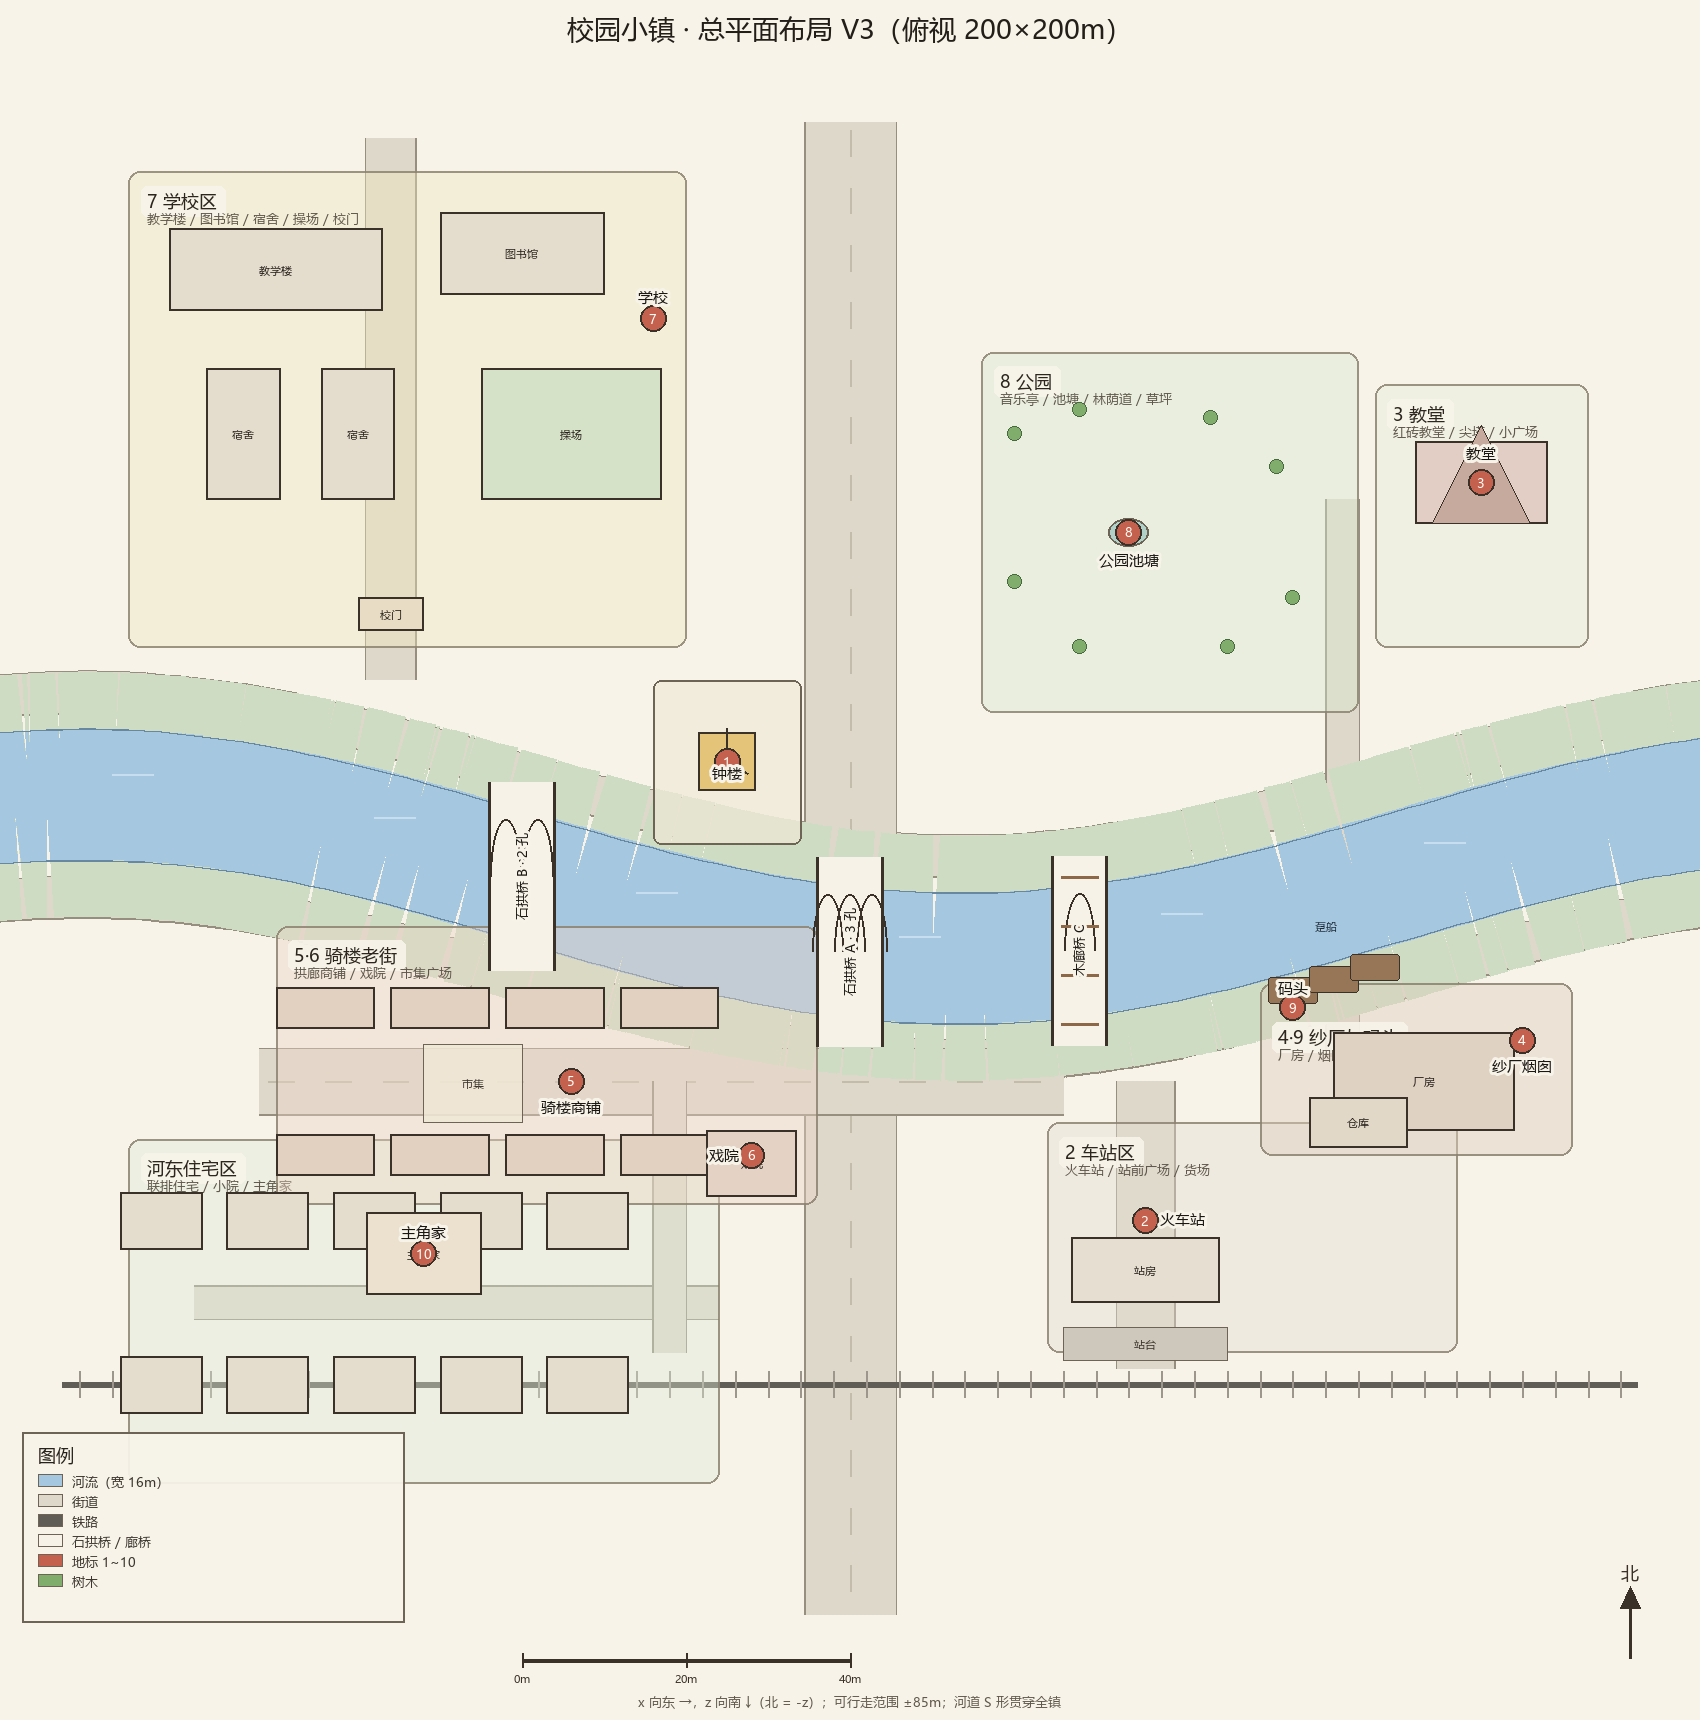
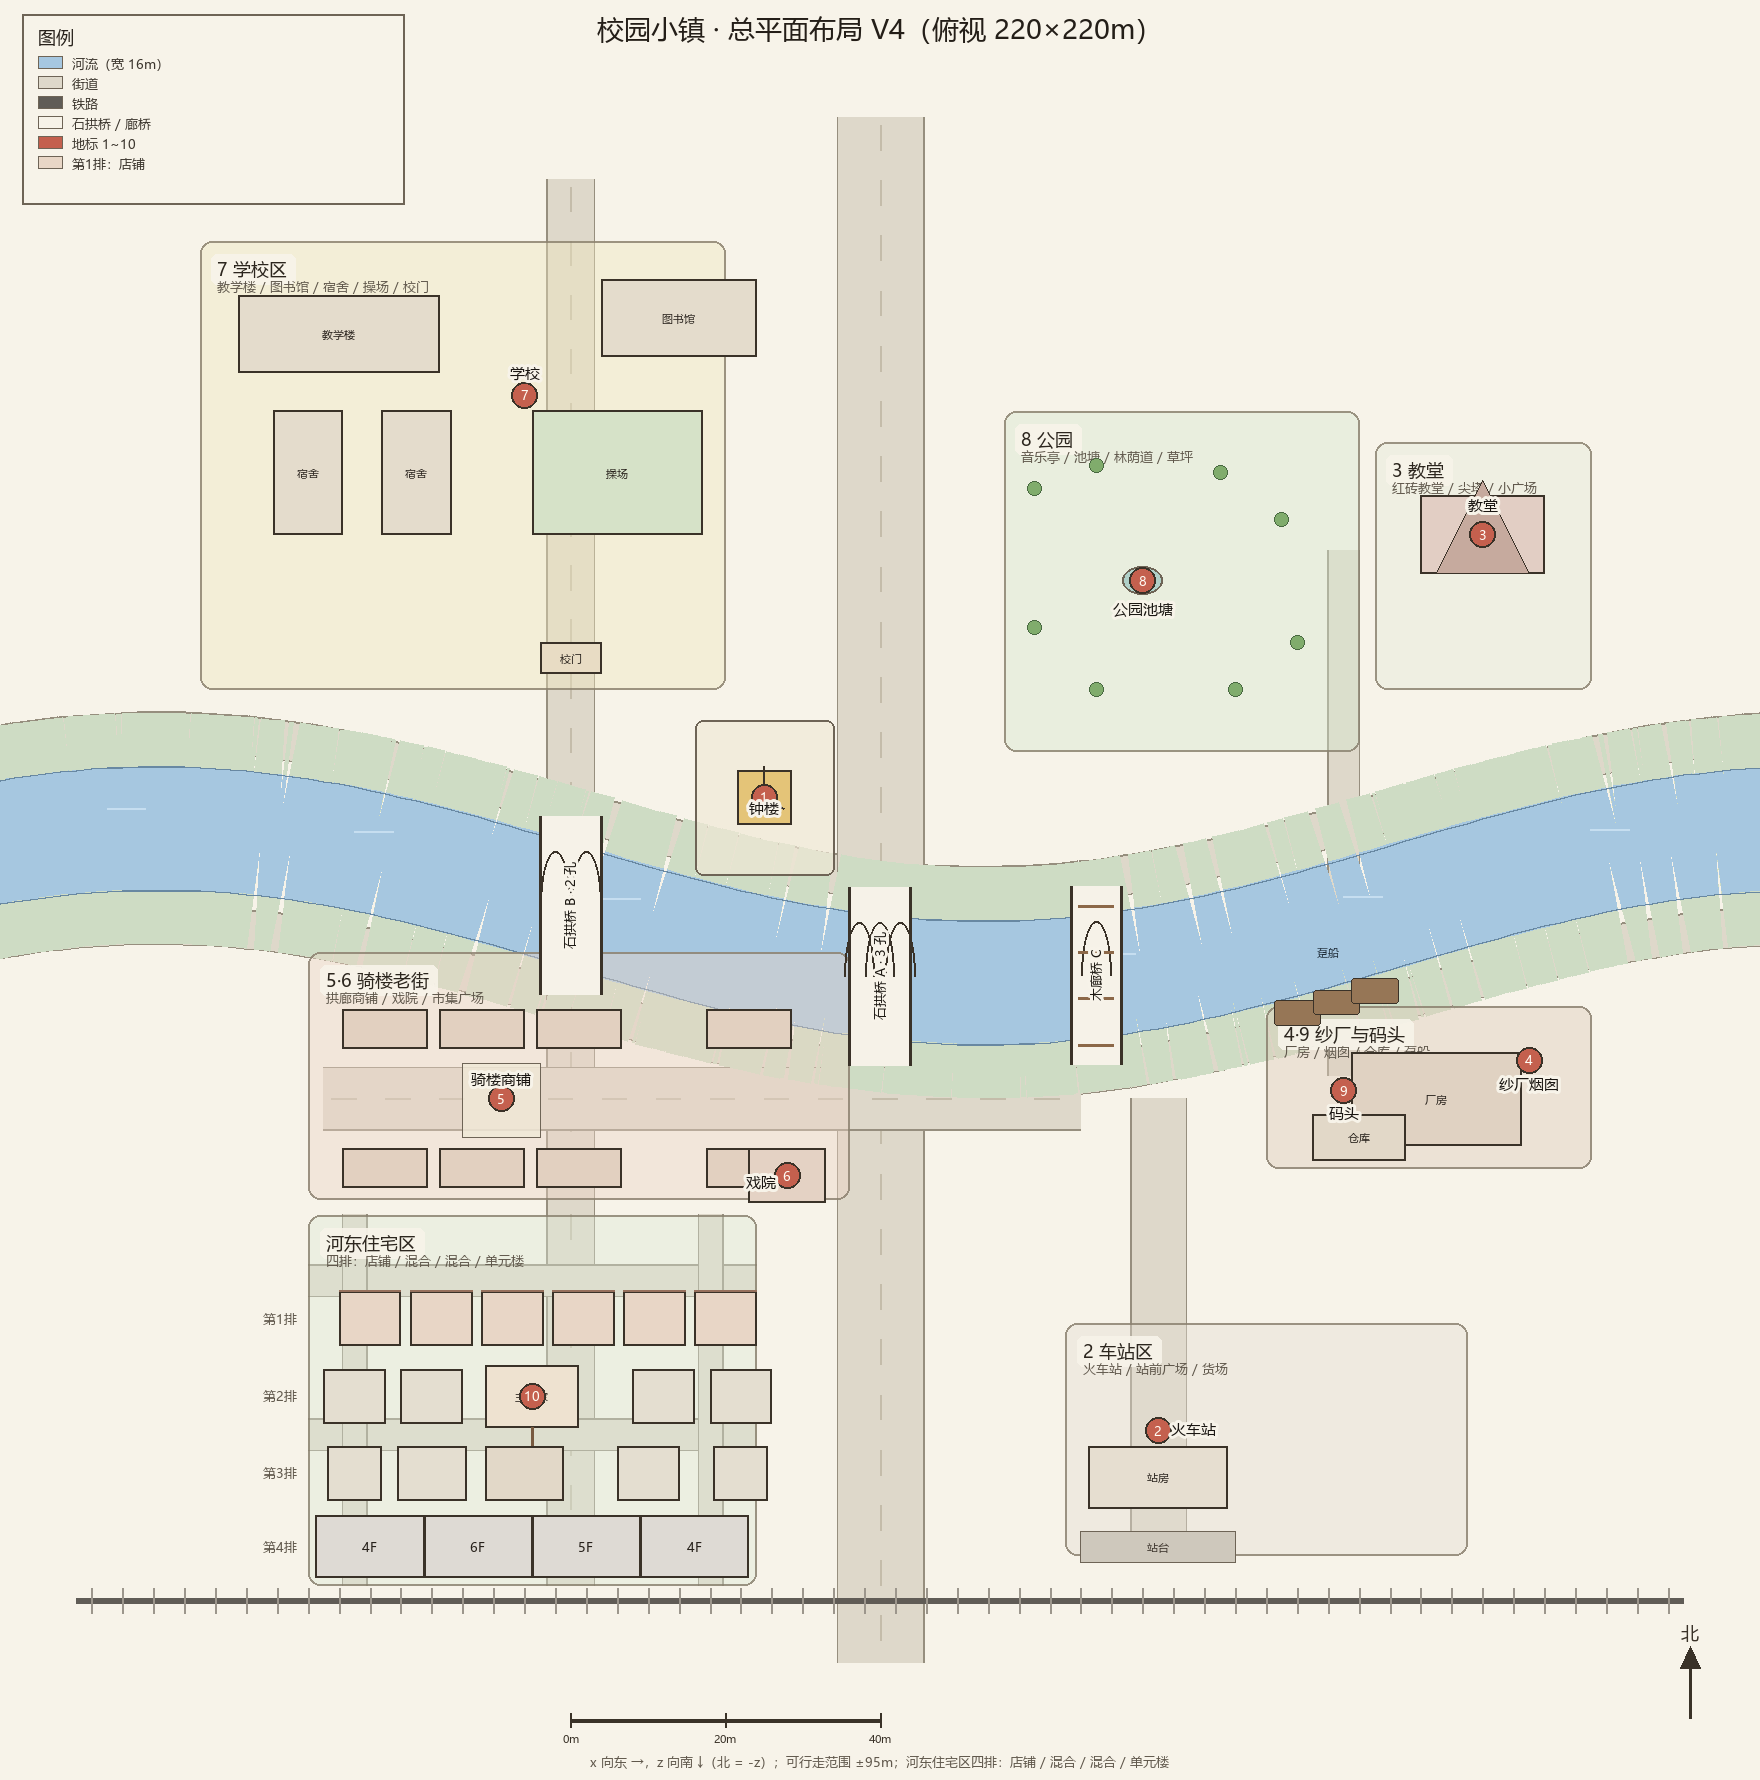
docs(设计): 住宅区按作者要求重排为四排（店铺/混合/混合/单元楼）+ 直路通学校
- 河东住宅区改为四排（近河为第 1 排）：第 1 排店铺居多（面相北街）、第 2/3 排混合住宅自由分布、
  第 4 排单元楼 4 栋（4/6/5/4 层，高低不同，进深最大）
- 主角家 12×8 放第 2 排正中（x=-45），家门正对中央街
- 中央街 x=-40 拉直：校门→校前路→石拱桥 B→河滨路→住宅中央街，主角家出门直达学校
- 连带：校前路/图书馆/校门对齐到 x=-40；车站与铁路南移（铁路 z=92、站房 z=76）；
  地图扩到 220×220m（可行走 ±95）；骑楼老街在 x=-40 处留中央街缺口
- 平面图 docs/img/town-layout.png 重出（V4）

diff --git a/docs/18-小镇总平面布局.md b/docs/18-小镇总平面布局.md
@@ -1,4 +1,4 @@
-# 18 · 小镇总平面布局 V3（近代风格，待作者修改）
+# 18 · 小镇总平面布局 V4（近代风格，待作者修改）
 
 作者需求：**从"单独的学校"扩成一个小镇；先出俯视布局图，在图上修改；要有河流与拱桥穿插、地标建筑，风格偏近代。**
 
@@ -6,7 +6,7 @@
 
 ## 一、总体结构
 
-- 用地 **200×200m**（可行走 ±85m），当前工程的 200m 地形尺寸可直接复用
+- 用地 **220×220m**（可行走 ±95m）—— 为容纳住宅区四排 + 南移的铁路，比 V3 扩了 20m
 - **河流 S 形贯穿东西**：河宽 16m，中心线 `z = 10·sin((x+40)/34) + 2`
   （x=-100 → z≈-7.8；x=-60 → -3.6；x=-20 → 7.6；x=0 → 11.2；x=40 → 9.1；x=80 → -1.8）
 - **三座桥**：主街 3 孔石拱桥（x=0）、老街 2 孔石拱桥（x=-40）、东段木廊桥（x=28）
@@ -18,13 +18,30 @@
 
 | 片区 | x 范围 | z 范围 | 内容 |
 | --- | --- | --- | --- |
-| 7 学校区 | -88 ~ -20 | -84 ~ -26 | 教学楼 (-70,-72) 26×10 / 图书馆 (-40,-74) 20×10 / 宿舍 ×2 (-74,-52)(-60,-52) 9×16 / 操场 (-34,-52) 22×16 / 校门 (-56,-30) 8×4 |
+| 7 学校区 | -88 ~ -20 | -84 ~ -26 | 教学楼 (-70,-72) 26×10 / 图书馆 (-26,-74) 20×10 / 宿舍 ×2 (-74,-52)(-60,-52) 9×16 / 操场 (-34,-52) 22×16 / 校门 (-40,-30) 8×4 |
 | 8 公园 | 16 ~ 62 | -62 ~ -18 | 池塘 (34,-40) 40×28 椭圆 / 音乐亭 / 8 处树丛 |
 | 3 教堂 | 64 ~ 90 | -58 ~ -26 | 教堂 (77,-46) 16×10 + 尖塔 |
-| 河东住宅区 | -88 ~ -16 | 34 ~ 76 | 联排住宅 2 排 ×5 栋（10×7）/ 主角家 (-52,48) 14×10 |
-| 5·6 骑楼老街 | -70 ~ -4 | 8 ~ 42 | 骑楼两排（z=18 / 36，各 4 栋 12×5）/ 戏院 (-12,37) 11×8 / 市集 (-46,27) 12×9.5 |
-| 2 车站区 | 24 ~ 74 | 32 ~ 60 | 站房 (36,50) 18×8 / 站台 (26~46, 57~61) / 站前广场 |
+| 河东住宅区（四排） | -74 ~ -16 | 42 ~ 90 | 见下方「住宅区四排」小节 |
+| 5·6 骑楼老街 | -74 ~ -4 | 8 ~ 40 | 骑楼两排（z=18 / 36，各 4 栋 12×5）/ 戏院 (-12,37) 11×8 / 市集 (-46,27) 12×9.5 |
+| 2 车站区 | 24 ~ 76 | 56 ~ 86 | 站房 (36,50) 18×8 / 站台 (26~46, 57~61) / 站前广场 |
 | 4·9 纱厂与码头 | 50 ~ 88 | 15 ~ 36 | 厂房 (70,27) 22×12 / 烟囱 (82,22) / 仓库 (62,32) 12×6 / 趸船 3 只停南岸 |
+
+## 二·五、住宅区四排（本次按作者要求重排）
+
+位置：x -74 ~ -16、z 42 ~ 90。**离河最近的是第 1 排**，往南依次第 2/3/4 排：
+
+| 排 | z 范围 | 内容 |
+| --- | --- | --- |
+| 第 1 排（临河侧，临北街 z=50.5） | 52 ~ 59 | **店铺居多**：6 间店面（8×7，2 层），门前雨棚/门脸线朝北 |
+| 第 2 排（中街 z=70.5 北侧） | 62 ~ 69 | 混合住宅（大小不一），**主角家 12×8 居中 (x=-45)**，家门正对中央街 |
+| 第 3 排 | 72 ~ 79 | 混合住宅，自由分布（7~10m 面宽） |
+| 第 4 排（最南，沿铁路） | 81 ~ 89 | **单元楼 4 栋，4/6/5/4 层高低不同**，进深最大 |
+
+道路：
+- **中央街 x=-40**：一条直路把 **校门 → 校前路 → 石拱桥 B → 河滨路 → 住宅中央街** 串起来，
+  主角家的门就开在这条街边 —— 出门往北一路直达学校（不用拐弯进别的巷子）
+- 北街 z=50.5（第 1 排店铺门脸）、中街 z=70.5（主角家门前）、东/西巷 x=-22 / x=-68 纵向连通
+- 车站区与铁路随之下移（铁路 z=92、站房 z=76），给住宅四排让出空间
 
 ## 三、街道与铁路
 
@@ -32,28 +49,28 @@
 | --- | --- | --- |
 | 主街（南北主轴） | x = 0，z -90~92 | 11m |
 | 老街商街 | z = 27，x -72~26 | 8m |
-| 校前路 | x = -56，z -88~-22 | 6m |
+| 校前路—桥B—中央街（直路） | x = -40，z -92~90 | 6m |
 | 车站路 | x = 36，z 27~62 | 7m |
 | 住宅巷 | z = 54，x -80~-16 | 4m |
 | 老城巷 | x = -22，z 27~60 | 4m |
 | 东侧巷（教堂→纱厂） | x = 60，z -44~24 | 4m |
 | 南北岸河滨路 | 沿河两侧（偏移 ±12.5m） | 5m |
-| 铁路 | z = 64，x -96~96 | 含站台 |
+| 铁路 | z = 92，x -104~104 | 含站台 |
 
 ## 四、十处地标（近代取向）
 
 | # | 地标 | 坐标 | 造型要点 |
 | --- | --- | --- | --- |
 | 1 | 钟楼广场 | (-15,-12) | 钟楼约 18m 高，四面钟盘，广场铺装 + 长椅 |
-| 2 | 火车站 | (36,50) | 青砖站房 + 铁架雨棚 + 站台 + 站前广场 |
+| 2 | 火车站 | (36,76) | 青砖站房 + 铁架雨棚 + 站台 + 站前广场 |
 | 3 | 教堂 | (77,-46) | 红砖 + 尖塔约 22m，彩色玻璃窗，小广场 |
 | 4 | 纱厂 | (70,27) | 红砖锯齿顶厂房 + 30m 砖烟囱 |
 | 5 | 骑楼老街 | (-34,27) | 两层拱廊商铺（连拱柱廊+灰瓦），招牌挑檐 |
 | 6 | 戏院 | (-12,37) | 门楼 + 海报墙 + 门厅灯箱 |
-| 7 | 学校 | (-56,-44) | 复用现有教学楼/图书馆/宿舍/操场的美术语言 |
+| 7 | 学校 | (-46,-64) | 复用现有教学楼/图书馆/宿舍/操场的美术语言 |
 | 8 | 公园音乐亭 | (34,-40) | 八角亭 + 池塘 + 林荫道 + 草坪 |
 | 9 | 码头与仓库 | (58,20) | 石阶码头 + 木趸船 + 砖仓库 + 起重臂 |
-| 10 | 主角家 | (-52,48) | 现有和风二层小楼（原样搬过来） |
+| 10 | 主角家 | (-45,65.5) | 现有和风二层小楼（原样搬过来） |
 
 ## 五、近代风格要点（落地时按这个做材质/造型）
 
